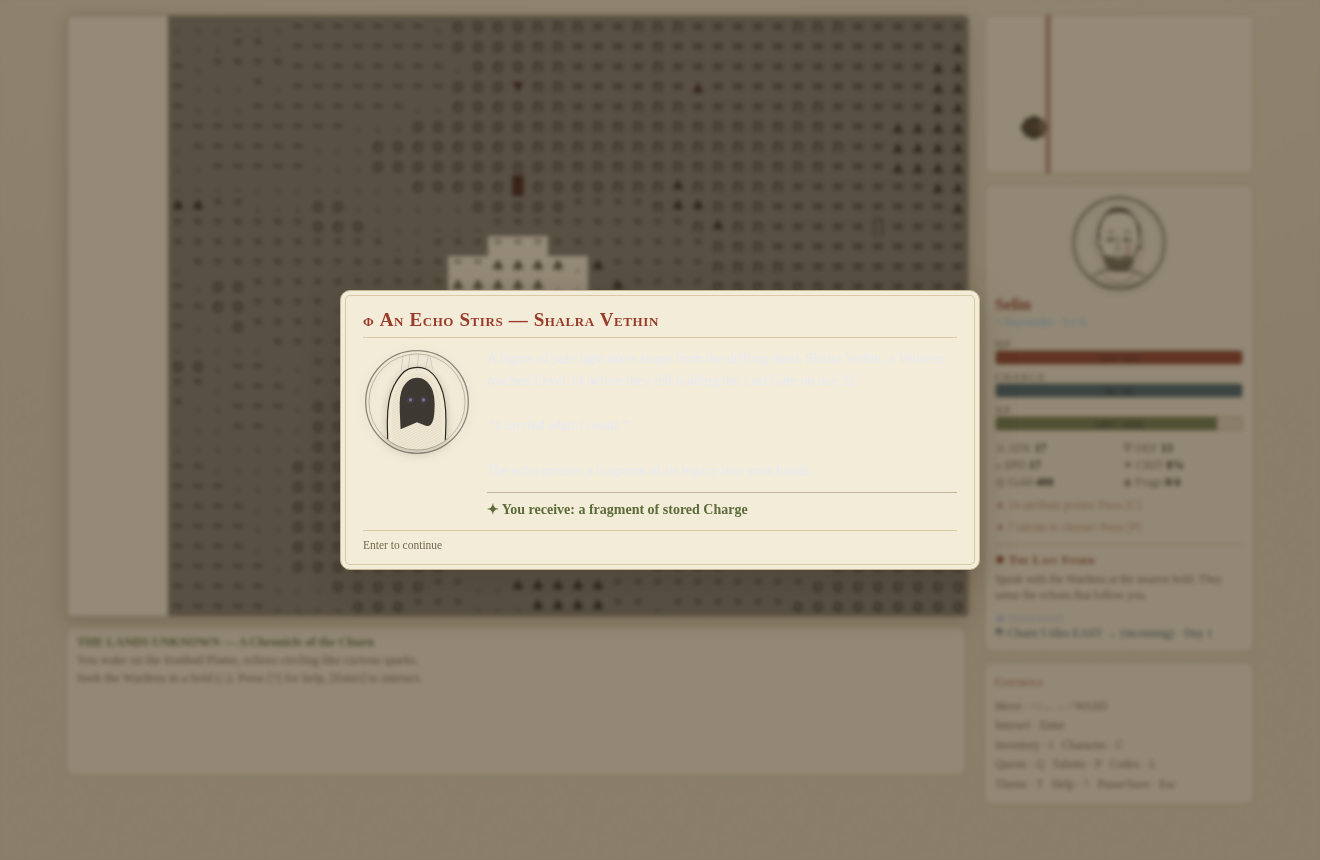
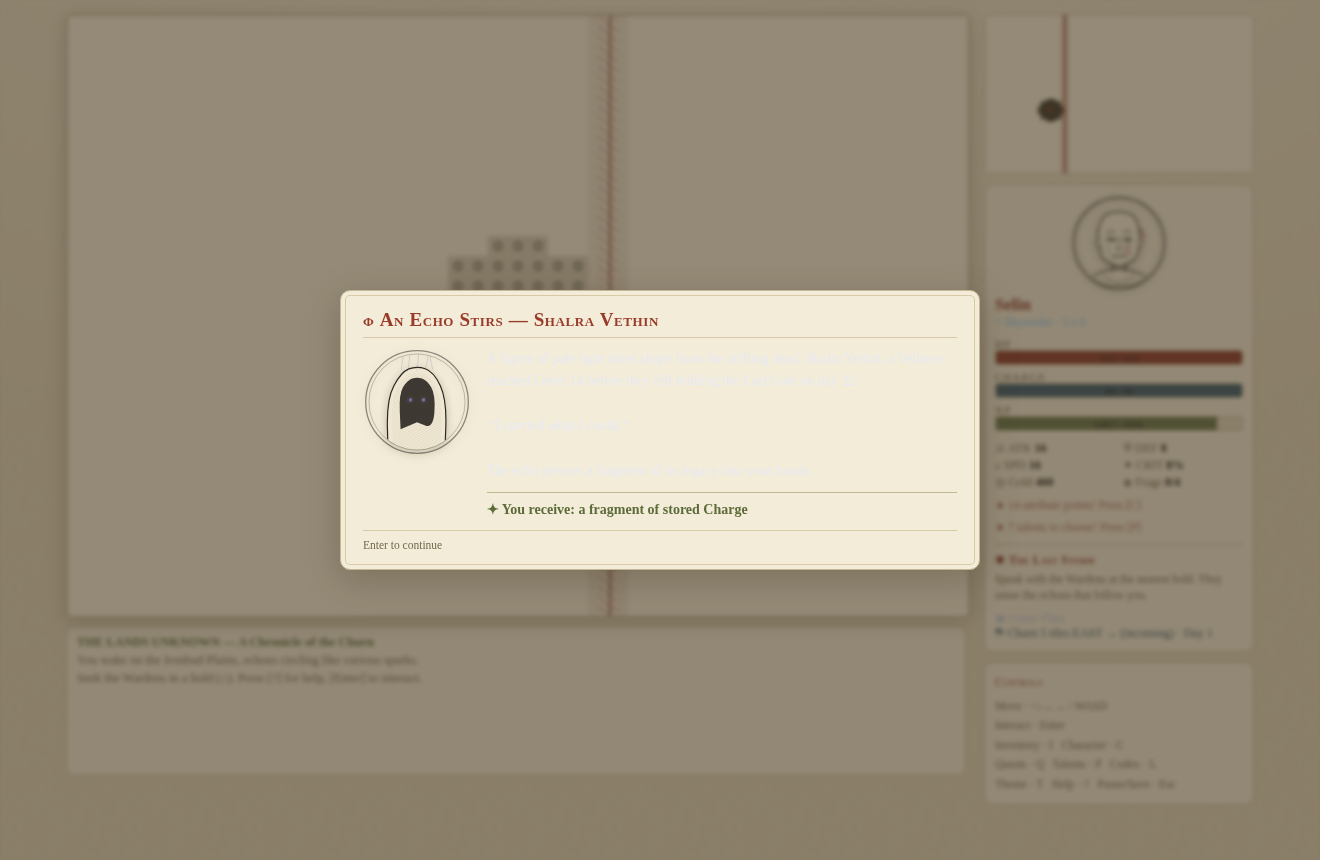
Illustrated inked overworld (no more ASCII glyphs)
Redraw the overworld viewport as a hand-inked cartographic map in the
Folio idiom, replacing per-tile ASCII glyphs with canvas vector motifs:

- Terrain symbols by biome — water waves, ironbud tufts, hill bumps,
  stonewood trees, mountains, sundered-plateau chasm hatch, crater
  rings, Churnreach motes, ashland stipple — each tinted by a muted
  biome wash over the map's paper.
- Sites become framed map-pins (a light disc + ink ring + the site's
  symbol): holds, Riftvaults, reaver camps, the lair, the final ruin.
- Roads draw as trail segments; the hero is a hooded ink figure with an
  oxblood selection ring; the Churn is a hatched front with a leading
  line sweeping the map.
- Uncharted ground stays blank parchment and fills in as you explore.
- Fully themed via the palette (paper + ink for Folio; retones for the
  other themes), so it works under every theme. Dungeons stay ASCII.

overworld-shot.js captures a fully-charted map. All suites green (837
logic, full browser, mobile), zero console errors.

Claude-Session: https://claude.ai/code/session_012JuAjoBx2YqM5W9EUw89GY

Changed region(s): [[0.1242, 0.0, 0.7455, 0.7256], [0.7765, 0.0302, 0.8076, 0.2116], [0.8386, 0.3023, 0.8697, 0.3326]]

diff --git a/src/render.js b/src/render.js
@@ -49,36 +49,178 @@
   function TB(hex) { return TLU.Theme ? TLU.Theme.bg(hex) : hex; }
   function themed() { return TLU.Theme && TLU.Theme.activeId !== 'storm'; }
 
-  // ---- overworld viewport ----
+  // ---- overworld viewport — an illustrated, inked cartographic map ----
   function drawWorld(disp, game) {
-    const w = game.world, p = game.player;
-    disp.clear(TB('#05060a'));
+    const w = game.world, p = game.player, ctx = disp.ctx, cell = disp.cell;
+    const base = (TLU.Theme && TLU.Theme.active().mapBg) || '#0e0b16';
+    const ink = TC('#2a2620'), ink2 = TC('#6f6650');
+    disp.clear(base);
     const halfC = Math.floor(disp.cols / 2), halfR = Math.floor(disp.rows / 2);
     const ox = p.wx - halfC, oy = p.wy - halfR;
-    const th = themed();
+
+    ctx.save();
     for (let sy = 0; sy < disp.rows; sy++) {
       for (let sx = 0; sx < disp.cols; sx++) {
         const mx = ox + sx, my = oy + sy;
-        if (mx < 0 || my < 0 || mx >= w.w || my >= w.h) { disp.put(sx, sy, ' ', null, TB('#05060a')); continue; }
+        if (mx < 0 || my < 0 || mx >= w.w || my >= w.h) continue;
         const t = w.tiles[my][mx];
-        const seen = p.visited[mx + ',' + my];
-        let glyph = t.glyph, color = t.color, bg = t.bg, role = null;
-        if (t.road && !t.site) { glyph = '+'; color = '#8a7a55'; }
-        if (t.site) { glyph = t.site.glyph; color = t.site.color; bg = '#0a0a12'; role = 'site'; }
-        // theme the colour, then apply the (default-only) churn shading & fog
-        color = TC(color, role);
-        bg = TB(bg);
-        if (!th && game.storm && game.storm.active) {
-          const dxF = mx - game.storm.x;
-          if (Math.abs(dxF) <= 3) { bg = '#3a1455'; if (Math.abs(dxF) <= 1) bg = '#5a1f7a'; }
-          else if (dxF < 0) bg = '#160c22';
-        }
-        if (!seen) { color = dim(color, 0.42); bg = dim(bg || '#05060a', 0.5); }
-        disp.put(sx, sy, glyph, color, bg);
+        if (!p.visited[mx + ',' + my]) continue;   // uncharted stays blank parchment
+        const px = sx * cell, py = sy * cell;
+        // terrain wash — the biome's hue, muted into the map's paper
+        ctx.fillStyle = mix(base, t.color, t.glyph === '~' ? 0.4 : 0.22);
+        ctx.fillRect(px, py, cell, cell);
+        if (t.road && !t.site) drawRoad(ctx, px, py, cell, mix(ink, '#b89360', 0.55));
+        else if (!t.site) drawMotif(ctx, px, py, cell, t.glyph, mix(ink, t.color, 0.28), ink2);
+        if (t.site) drawPin(ctx, px, py, cell, t.site, base, ink);
       }
     }
-    disp.put(halfC, halfR, '@', TC('#fff36b', 'player'), TB('#1a1a2a'));
+    ctx.restore();
+
+    // the Churn front — a hatched band of machine-dust sweeping the map
+    if (game.storm && game.storm.active) drawChurn(ctx, disp, game, ox, oy);
+
+    // the hero, dwarfed at the centre
+    drawHero(ctx, halfC * cell + cell / 2, halfR * cell + cell / 2, cell, ink, TC('#9a3b2a', 'accent'));
     drawMinimap(game);
+  }
+
+  // ---- map drawing primitives -----------------------------------------
+  function parseHex(h) {
+    if (!h || h[0] !== '#') return [128, 128, 128];
+    const n = h.length === 4
+      ? parseInt(h[1] + h[1] + h[2] + h[2] + h[3] + h[3], 16) : parseInt(h.slice(1), 16);
+    return [(n >> 16) & 255, (n >> 8) & 255, n & 255];
+  }
+  function mix(a, b, t) {
+    const A = parseHex(a), B = parseHex(b);
+    return 'rgb(' + Math.round(A[0] + (B[0] - A[0]) * t) + ',' + Math.round(A[1] + (B[1] - A[1]) * t) + ',' + Math.round(A[2] + (B[2] - A[2]) * t) + ')';
+  }
+
+  // a small terrain symbol drawn for a tile glyph
+  function drawMotif(ctx, px, py, cell, glyph, col, col2) {
+    const cx = px + cell / 2, cy = py + cell / 2, u = cell;
+    ctx.lineWidth = Math.max(1, u * 0.055);
+    ctx.lineCap = 'round';
+    ctx.strokeStyle = col; ctx.fillStyle = col;
+    switch (glyph) {
+      case '~': // open water
+        ctx.strokeStyle = mix(col2, '#3f6173', 0.55);
+        wave(ctx, cx, cy - u * 0.12, u * 0.32);
+        wave(ctx, cx, cy + u * 0.16, u * 0.32);
+        break;
+      case '.': // shore
+        ctx.strokeStyle = mix(col2, '#3f6173', 0.4);
+        wave(ctx, cx, cy + u * 0.06, u * 0.3);
+        break;
+      case '"': // ironbud plains — little tufts
+        ctx.strokeStyle = col;
+        for (let i = -1; i <= 1; i++) { ctx.beginPath(); ctx.moveTo(cx + i * u * 0.22, cy + u * 0.12); ctx.lineTo(cx + i * u * 0.22, cy - u * 0.06); ctx.stroke(); }
+        break;
+      case 'n': // hills — a bump or two
+        ctx.beginPath(); ctx.arc(cx - u * 0.13, cy + u * 0.06, u * 0.16, Math.PI, 0); ctx.stroke();
+        ctx.beginPath(); ctx.arc(cx + u * 0.15, cy + u * 0.1, u * 0.13, Math.PI, 0); ctx.stroke();
+        break;
+      case '♣': { // stonewood — a tree
+        ctx.beginPath(); ctx.moveTo(cx, cy + u * 0.2); ctx.lineTo(cx, cy - u * 0.04); ctx.stroke();
+        ctx.beginPath(); ctx.moveTo(cx, cy - u * 0.26); ctx.lineTo(cx - u * 0.16, cy + u * 0.02); ctx.lineTo(cx + u * 0.16, cy + u * 0.02); ctx.closePath(); ctx.fill();
+        break;
+      }
+      case '▲': // mountain
+        ctx.beginPath(); ctx.moveTo(cx, cy - u * 0.24); ctx.lineTo(cx - u * 0.26, cy + u * 0.2); ctx.lineTo(cx + u * 0.26, cy + u * 0.2); ctx.closePath();
+        ctx.fillStyle = mix(col, '#ffffff', 0.12); ctx.fill(); ctx.stroke();
+        ctx.strokeStyle = mix(col, '#ffffff', 0.5); ctx.beginPath(); ctx.moveTo(cx, cy - u * 0.24); ctx.lineTo(cx - u * 0.08, cy - u * 0.02); ctx.stroke();
+        break;
+      case '=': // sundered plateau — chasm hatch
+        ctx.strokeStyle = col2;
+        for (let i = -1; i <= 1; i++) { ctx.beginPath(); ctx.moveTo(cx - u * 0.22 + i * u * 0.04, cy - u * 0.12 + i * u * 0.16); ctx.lineTo(cx + u * 0.22 + i * u * 0.04, cy - u * 0.12 + i * u * 0.16); ctx.stroke(); }
+        break;
+      case 'o': // crater
+        ctx.beginPath(); ctx.arc(cx, cy, u * 0.18, 0, Math.PI * 2); ctx.stroke();
+        break;
+      case '§': // the Churnreach — drifting motes
+        ctx.fillStyle = mix(col, '#c0703a', 0.6);
+        for (let i = 0; i < 4; i++) dot(ctx, cx + (i % 2 ? 1 : -1) * u * 0.16, cy + (i < 2 ? -1 : 1) * u * 0.13, u * 0.05);
+        break;
+      case ':': // ashlands
+        ctx.fillStyle = col2;
+        dot(ctx, cx - u * 0.12, cy + u * 0.04, u * 0.045); dot(ctx, cx + u * 0.1, cy - u * 0.06, u * 0.045); dot(ctx, cx + u * 0.04, cy + u * 0.14, u * 0.04);
+        break;
+      default:
+        dot(ctx, cx, cy, u * 0.05);
+    }
+  }
+  function wave(ctx, cx, cy, half) {
+    ctx.beginPath(); ctx.moveTo(cx - half, cy);
+    ctx.quadraticCurveTo(cx - half * 0.5, cy - half * 0.5, cx, cy);
+    ctx.quadraticCurveTo(cx + half * 0.5, cy + half * 0.5, cx + half, cy); ctx.stroke();
+  }
+  function dot(ctx, x, y, r) { ctx.beginPath(); ctx.arc(x, y, r, 0, Math.PI * 2); ctx.fill(); }
+
+  function drawRoad(ctx, px, py, cell, col) {
+    const cx = px + cell / 2, cy = py + cell / 2;
+    ctx.fillStyle = col;
+    ctx.beginPath();
+    if (ctx.roundRect) { ctx.roundRect(cx - cell * 0.34, cy - cell * 0.1, cell * 0.68, cell * 0.2, cell * 0.1); ctx.fill(); }
+    else ctx.fillRect(cx - cell * 0.34, cy - cell * 0.1, cell * 0.68, cell * 0.2);
+  }
+
+  // a framed map-pin: a light disc with an ink ring and the site's symbol
+  function drawPin(ctx, px, py, cell, site, base, ink) {
+    const cx = px + cell / 2, cy = py + cell / 2, r = cell * 0.4;
+    ctx.save();
+    ctx.fillStyle = 'rgba(40,30,18,0.28)';
+    ctx.beginPath(); ctx.ellipse(cx, cy + r * 0.7, r * 0.8, r * 0.32, 0, 0, Math.PI * 2); ctx.fill();
+    ctx.fillStyle = mix(base, site.color, 0.5);
+    ctx.beginPath(); ctx.arc(cx, cy, r, 0, Math.PI * 2); ctx.fill();
+    ctx.lineWidth = Math.max(1, cell * 0.07); ctx.strokeStyle = ink; ctx.stroke();
+    ctx.fillStyle = mix(ink, site.color, 0.65);
+    ctx.textAlign = 'center'; ctx.textBaseline = 'middle';
+    ctx.font = Math.floor(cell * 0.56) + 'px ' + 'Georgia, serif';
+    ctx.fillText(site.glyph, cx, cy + 1);
+    ctx.restore();
+  }
+
+  function drawHero(ctx, cx, cy, cell, ink, accent) {
+    const h = cell * 0.86, w = h * 0.46;
+    ctx.save();
+    // selection ring
+    ctx.strokeStyle = accent; ctx.lineWidth = Math.max(1.5, cell * 0.07);
+    ctx.beginPath(); ctx.arc(cx, cy, cell * 0.5, 0, Math.PI * 2); ctx.stroke();
+    // shadow
+    ctx.fillStyle = 'rgba(30,22,12,0.3)';
+    ctx.beginPath(); ctx.ellipse(cx, cy + h * 0.36, w * 0.5, h * 0.07, 0, 0, Math.PI * 2); ctx.fill();
+    // cloaked body
+    ctx.fillStyle = ink;
+    ctx.beginPath();
+    ctx.moveTo(cx - w / 2, cy + h * 0.36);
+    ctx.quadraticCurveTo(cx - w * 0.56, cy - h * 0.22, cx - h * 0.13, cy - h * 0.36);
+    ctx.quadraticCurveTo(cx, cy - h * 0.52, cx + h * 0.13, cy - h * 0.36);
+    ctx.quadraticCurveTo(cx + w * 0.56, cy - h * 0.22, cx + w / 2, cy + h * 0.36);
+    ctx.closePath(); ctx.fill();
+    ctx.beginPath(); ctx.arc(cx, cy - h * 0.4, h * 0.12, 0, Math.PI * 2); ctx.fill();
+    // anima gem
+    ctx.fillStyle = accent; dot(ctx, cx, cy - h * 0.04, cell * 0.06);
+    ctx.restore();
+  }
+
+  function drawChurn(ctx, disp, game, ox, oy) {
+    const cell = disp.cell, sxF = (game.storm.x - ox);
+    const xpx = sxF * cell;
+    if (xpx < -cell * 2 || xpx > disp.cols * cell + cell * 2) return;
+    const H = disp.rows * cell;
+    ctx.save();
+    // faint wash on the wake (west) side already passed
+    ctx.fillStyle = 'rgba(150,70,40,0.08)';
+    ctx.fillRect(xpx - cell, 0, cell * 2, H);
+    // diagonal hatch front
+    ctx.strokeStyle = 'rgba(120,60,35,0.5)'; ctx.lineWidth = Math.max(1, cell * 0.05);
+    for (let y = -cell; y < H; y += cell * 0.5) {
+      ctx.beginPath(); ctx.moveTo(xpx - cell * 0.5, y); ctx.lineTo(xpx + cell * 0.5, y + cell * 0.8); ctx.stroke();
+    }
+    // a stronger leading line
+    ctx.strokeStyle = TC('#9a3b2a', 'accent'); ctx.lineWidth = Math.max(1.5, cell * 0.08);
+    ctx.beginPath(); ctx.moveTo(xpx + cell * 0.1, 0); ctx.lineTo(xpx + cell * 0.1, H); ctx.stroke();
+    ctx.restore();
   }
 
   // ---- dungeon viewport ----

diff --git a/test/overworld-shot.js b/test/overworld-shot.js
@@ -1,0 +1,41 @@
+/* Capture the illustrated overworld with the whole map charted. */
+const { chromium } = require('playwright-core');
+const http = require('http');
+const fs = require('fs');
+const path = require('path');
+const ROOT = path.join(__dirname, '..');
+const MIME = { '.html': 'text/html', '.js': 'text/javascript', '.css': 'text/css', '.png': 'image/png' };
+function serve() { return new Promise((r) => { const s = http.createServer((req, res) => { let p = decodeURIComponent(req.url.split('?')[0]); if (p === '/') p = '/index.html'; const fp = path.join(ROOT, p); if (!fp.startsWith(ROOT) || !fs.existsSync(fp)) { res.writeHead(404); res.end(); return; } res.writeHead(200, { 'Content-Type': MIME[path.extname(fp)] || 'text/plain' }); res.end(fs.readFileSync(fp)); }); s.listen(0, () => r(s)); }); }
+const OUT = path.join(ROOT, 'assets', 'design');
+
+(async () => {
+  const srv = await serve(); const port = srv.address().port;
+  const browser = await chromium.launch({ executablePath: '/opt/pw-browsers/chromium-1194/chrome-linux/chrome', args: ['--no-sandbox'] });
+  const page = await browser.newPage({ viewport: { width: 1320, height: 880 } });
+  const errs = []; page.on('pageerror', e => errs.push(e.message)); page.on('console', m => { if (m.type() === 'error') errs.push(m.text()); });
+  await page.goto(`http://localhost:${port}/index.html`, { waitUntil: 'networkidle' });
+  await page.evaluate(() => localStorage.clear());
+  await page.reload({ waitUntil: 'networkidle' });
+  await page.waitForTimeout(200);
+
+  // begin a game directly, then chart the whole map and centre on a site-rich spot
+  await page.evaluate(() => {
+    const g = window.GAME;
+    g.beginGame({ seed: 'showmap', name: 'Selin', order: 'skyrender', weaponSkill: 'blades', look: { seed: 'look:show:0:1', fem: false, age: 'prime' } });
+    const w = g.world, p = g.player;
+    for (let y = 0; y < w.h; y++) for (let x = 0; x < w.w; x++) p.visited[x + ',' + y] = true;
+    // centre near the town cluster so pins are on screen
+    const t = w.towns && w.towns[0] ? w.towns[0] : { x: Math.floor(w.w / 2), y: Math.floor(w.h / 2) };
+    p.wx = t.x; p.wy = t.y;
+    g.storm = { active: true, x: p.wx + 7, dir: -1, speed: 1.6, timer: 30 };
+    g.render();
+  });
+  await page.waitForTimeout(150);
+  await page.screenshot({ path: path.join(OUT, 'overworld-map.png') });
+  // a tighter crop of just the map canvas
+  const map = await page.$('#map-wrap');
+  if (map) await map.screenshot({ path: path.join(OUT, 'overworld-canvas.png') });
+
+  console.log(errs.length ? ('ERRORS:\n' + errs.slice(0, 8).join('\n')) : 'no errors');
+  await browser.close(); srv.close();
+})().catch(e => { console.error(e); process.exit(1); });

diff --git a/README.md b/README.md
@@ -188,6 +188,11 @@ or fill the **Codex** bestiary to see it. A standalone gallery lives at `design/
   premade looks to pick from, with **reroll** for fresh sets and **presentation** / **age**
   toggles. Your choice drives the generative ink portrait everywhere it appears (the HUD,
   the character sheet, dialogue), and persists with your save and your dynasty.
+- **An illustrated overworld.** The world map is drawn as an inked chart, not ASCII — each
+  biome a hand-symbol (water waves, ironbud tufts, hill bumps, stonewood trees, mountains,
+  crater rings, chasm hatch), holds/vaults/camps/ruins as framed map-pins, roads as trails,
+  the hero a hooded figure with a selection ring, and the Churn a hatched front sweeping the
+  page. Uncharted ground stays blank parchment; it fills in as you explore. (`src/render.js`)
 - **Procedural open world.** A value-noise continent with nine biomes, holds (towns),
   drowned Riftvaults, reaver camps, roads, the roaming Churn, and a far-eastern danger gradient —
   every world is reproducible from its seed.
